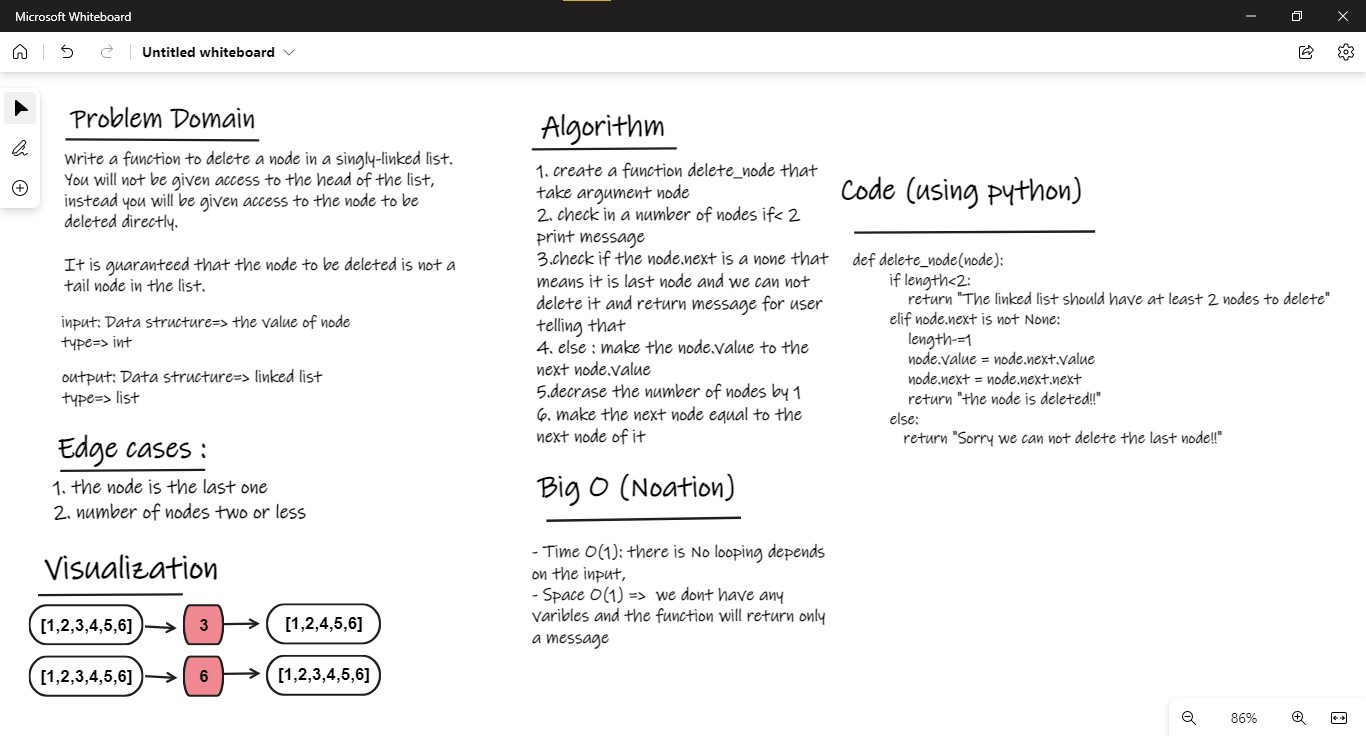
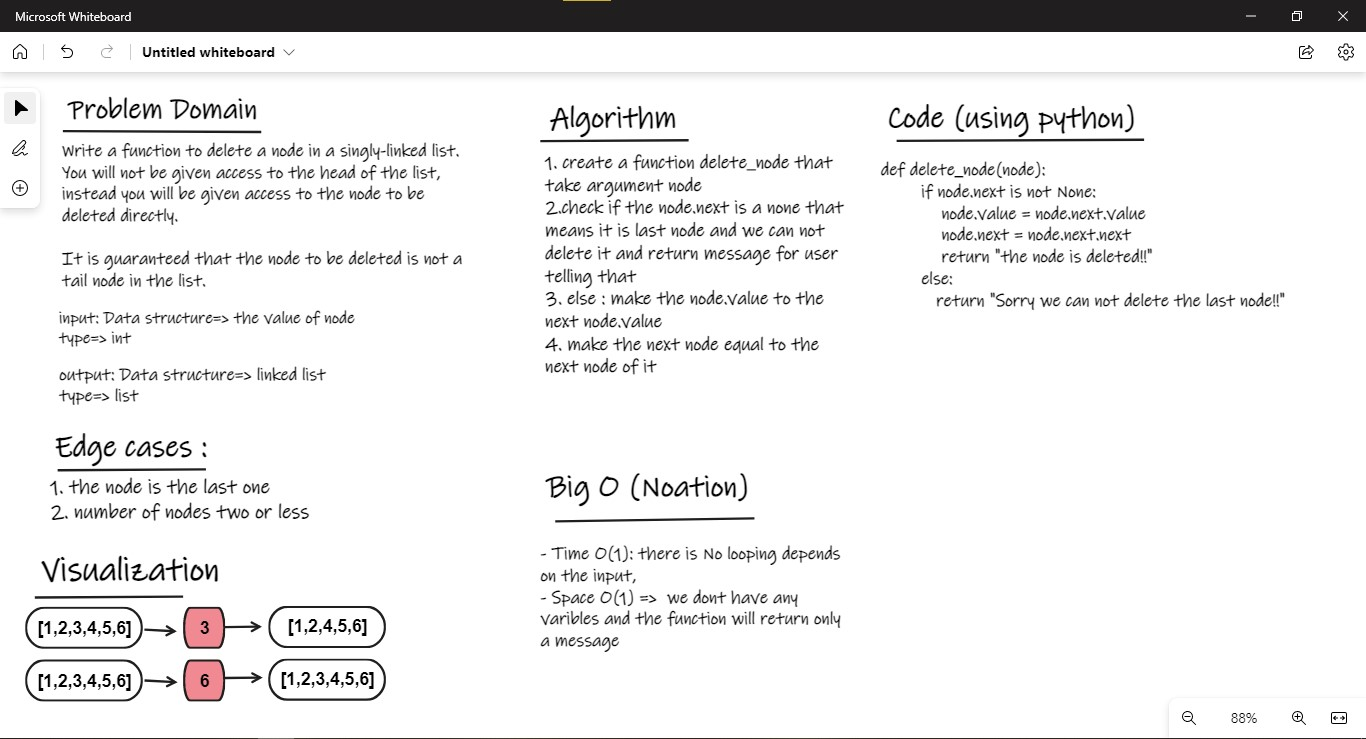
make delete_node function

diff --git a/python/code_challenges/linkedlist/challenge01/challenge01.py b/python/code_challenges/linkedlist/challenge01/challenge01.py
@@ -1,65 +1,15 @@
-# #################### Node class #################### #  
-class Node:
-    "A Class that creates node with pointer refers to None"
-    def __init__(self,value):
-        self.value = value
-        self.next = None
-
-# #################### LinkedList class #################### #  
-from locale import currency
 
 
-class LinkedList:
-    '''
-    A Class that creates a linked list and handles its nodes :
-    1. append method to append a new node into a linked list  
-    2. delete_node method to delete a specific node from the linked 
-    3. all_nodes method returns all nodes as a List
-    4. get_length method returns the number of nodes inside the linked list  
-    '''
-    def __init__(self):
-        self.head = None
-        self.length=0
-    def append(self, node):
-        if self.head is None:
-            self.head = node
-            self.length+=1
-        else:
-            current = self.head
-            while current.next is not None:
-                current = current.next
-            current.next = node
-            self.length+=1
-
-    def all_nodes(self):
-        list_of_nodes=[]
-        if self.head is None:
-            print("The linked list is empty")
-        else:
-            current = self.head
-            while current is not None:
-                list_of_nodes.append(current.value)
-                current = current.next
-        return list_of_nodes
-
-
-    def delete_node(self, node):
-        if self.length<2:
-            return "The linked list should have at least 2 nodes to delete"
-        elif node.next is not None:
-            self.length-=1
+def delete_node( node):
+        if node.next is not None:
             node.value = node.next.value
             node.next = node.next.next
             return "the node is deleted!!"
         else:
-           return "Sorry we can not delete the last node!!"       
-
-    
-    def get_length(self):
-        return  f'The linked list has a {self.length} of nodes'
-
+           return "Sorry we can not delete the last node!!" 
 
 if __name__=="__main__":
+    from test_challenge01 import Node,LinkedList
     # create linkedList object and 6 nodes objects ,and append all nodes into linkedList 
     linkedList1 = LinkedList()
     node1 = Node(1)
@@ -77,20 +27,16 @@ if __name__=="__main__":
     # output terminal 
     print("\n***************************************************\n")
     print("we have a likedList with nodes => ",linkedList1.all_nodes()) # print the linkedList as list 
-    print(linkedList1.get_length()) # print the number of nodes 
     print("\n**************************************************\n")
     print('Delete node 2')
-    print(linkedList1.delete_node(node2))
+    print(delete_node(node2))
     print("A likedList after delete node 2 => ",linkedList1.all_nodes()) 
-    print(linkedList1.get_length()) # print the number of nodes 
     print("\n***************************************************\n")
     print('Delete node 4')
-    print(linkedList1.delete_node(node5))
+    print(delete_node(node5))
     print("A likedList after delete node 4 => ",linkedList1.all_nodes()) 
-    print(linkedList1.get_length()) # print the number of nodes 
     print("\n***************************************************\n")
     print('Delete the last node')
-    print(linkedList1.delete_node(node5))
+    print(delete_node(node5))
     print("A likedList after trying to delete last node => ",linkedList1.all_nodes()) 
-    print(linkedList1.get_length()) # print the number of nodes 
     print("\n***************************************************\n")

diff --git a/python/code_challenges/linkedlist/challenge01/test_challenge01.py b/python/code_challenges/linkedlist/challenge01/test_challenge01.py
@@ -1,40 +1,53 @@
 # Write your test here
 import pytest
-from challenge01 import LinkedList,Node
+from challenge01 import delete_node
+# #################### Node class #################### #  
+class Node:
+    "A Class that creates node with pointer refers to None"
+    def __init__(self,value):
+        self.value = value
+        self.next = None
 
+# #################### LinkedList class #################### #  
 
-def test_length(linkedlist_test):
-    assert linkedlist_test.get_length()=='The linked list has a 0 of nodes'
+class LinkedList:
+    '''
+    A Class that creates a linked list and handles its nodes :
+    1. append method to append a new node into a linked list  
+    2. all_nodes method returns all nodes as a List 
+    '''
+    def __init__(self):
+        self.head = None
+    def append(self, node):
+        if self.head is None:
+            self.head = node
+        else:
+            current = self.head
+            while current.next is not None:
+                current = current.next
+            current.next = node
 
-
-def test_append_node(linkedlist_test,node_test):
-    linkedlist_test.append(node_test[0])
-    assert linkedlist_test.get_length()=='The linked list has a 1 of nodes'
-    linkedlist_test.append(node_test[1])
-    assert linkedlist_test.get_length()=='The linked list has a 2 of nodes'
-    linkedlist_test.append(node_test[2])
-    linkedlist_test.append(node_test[3])
-    assert linkedlist_test.get_length()=='The linked list has a 4 of nodes'
-
-
-def test_delete_node(linkedlist_test,node_test):
-    assert linkedlist_test.get_length()=='The linked list has a 0 of nodes'
-    linkedlist_test.append(node_test[2])
-    linkedlist_test.append(node_test[3])
-    assert linkedlist_test.get_length()=='The linked list has a 2 of nodes'
-
-
+    def all_nodes(self):
+        list_of_nodes=[]
+        if self.head is None:
+            print("The linked list is empty")
+        else:
+            current = self.head
+            while current is not None:
+                list_of_nodes.append(current.value)
+                current = current.next
+        return list_of_nodes
+        
 
 def test_delete_last_node(linkedlist_test,node_test):
     linkedlist_test.append(node_test[0])
-    assert linkedlist_test.delete_node(node_test[0]) =="The linked list should have at least 2 nodes to delete"
+    assert delete_node(node_test[0]) =="Sorry we can not delete the last node!!"
     linkedlist_test.append(node_test[3])
-    assert linkedlist_test.delete_node(node_test[3]) =="Sorry we can not delete the last node!!" 
-    assert linkedlist_test.get_length()=='The linked list has a 2 of nodes'
+    assert delete_node(node_test[3]) =="Sorry we can not delete the last node!!" 
     linkedlist_test.append(node_test[1])
     linkedlist_test.append(node_test[2])
-    linkedlist_test.delete_node(node_test[3])
-    assert linkedlist_test.get_length()=='The linked list has a 3 of nodes'
+    delete_node(node_test[3])
+    assert delete_node(node_test[3]) =="the node is deleted!!"
 
 
 def test_all_nodes(linkedlist_test,node_test):

diff --git a/python/code_challenges/linkedlist/challenge01/whiteboard.md b/python/code_challenges/linkedlist/challenge01/whiteboard.md
@@ -2,15 +2,11 @@
 
 ## Challenge01 - Delete Node:
 - First I needed to create a Node class and a Linkedlist class
-- Create an instance argument "length" to count the number of nodes
 - Create an append method that take a node as argument to append nodes inside a linked list.
-    - increase length by one each time I append node
 - Create all_nodes method to return all appended nodes as a list 
-- create a deleted_node that takes node as argument 
-    - it checks if the number of node is less than or equal zero se you cant delete a node 
-    - also check if the node is the last node , and also you cant delete it 
-    - else you can delete node directly , and also decrease number of nodes by 1 
-- create get_length method to return the number of nodes 
+- create a deleted_node  function that takes node as argument 
+    - check if the node is the last node , and also you cant delete it 
+    - else you can delete node directly.
 - I have __name__ method to check my final code by 
     - create linkedList object and 6 nodes objects ,and append all nodes into linkedList 
     - print output for specific deleted node and show the linkedlist nodes 
